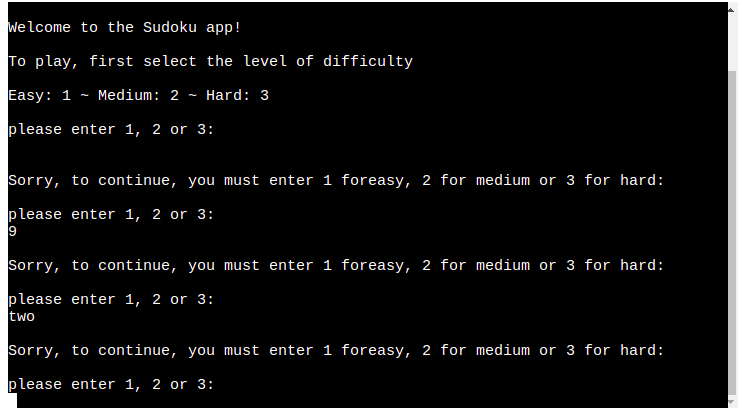
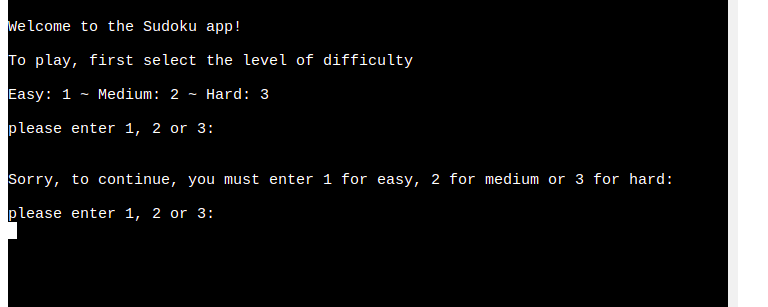
update input validation pictures and add spaces between paragraphs and pictures

diff --git a/README.md b/README.md
@@ -33,7 +33,7 @@ Sudoku-P3 is a Python terminal game. It is deployed on heroku and uses a mock te
 
 Users can play the classic game of Sudoku popularised by Maki Kaji.
 
-Users can select an easy, medium or hard Sudoku puzzle to solve, get hints if they are stuck on a square, and after finishing the puzzle if their solution is wrong they can see the correct solution. 
+Users can select an easy, medium or hard Sudoku puzzle to solve, get hints if they are stuck on a square, and after finishing the puzzle users can see correct solution as well as see how long it took to fill the board. 
 
 [The deployed site is here!](https://sudoku-p3.herokuapp.com/)
 
@@ -118,17 +118,25 @@ The rules for Sudoku are quite simple.
 
 
 ## <p id="input_val">Input Validation</p>
+
 - Difficulty select
   - You can not select anything other than 1, 2 or 3
+
 <img src="assets/images/dif_input.png">
+
 - Row, Column input 
   - You can only input a letter (a-i) followed by a number(1-9)
+
 <img src="assets/images/r_c_input.png">
+
 - Number Input 
   - You can only input number (1-9) or h for a hint 
+
 <img src="assets/images/num_h_input.png">
+
 - See solution & play again input
   - You can only enter 'y' or 'n'
+
 <img src="assets/images/y_n_input.png">
 
 ## <p id="future">Future Features</p>
